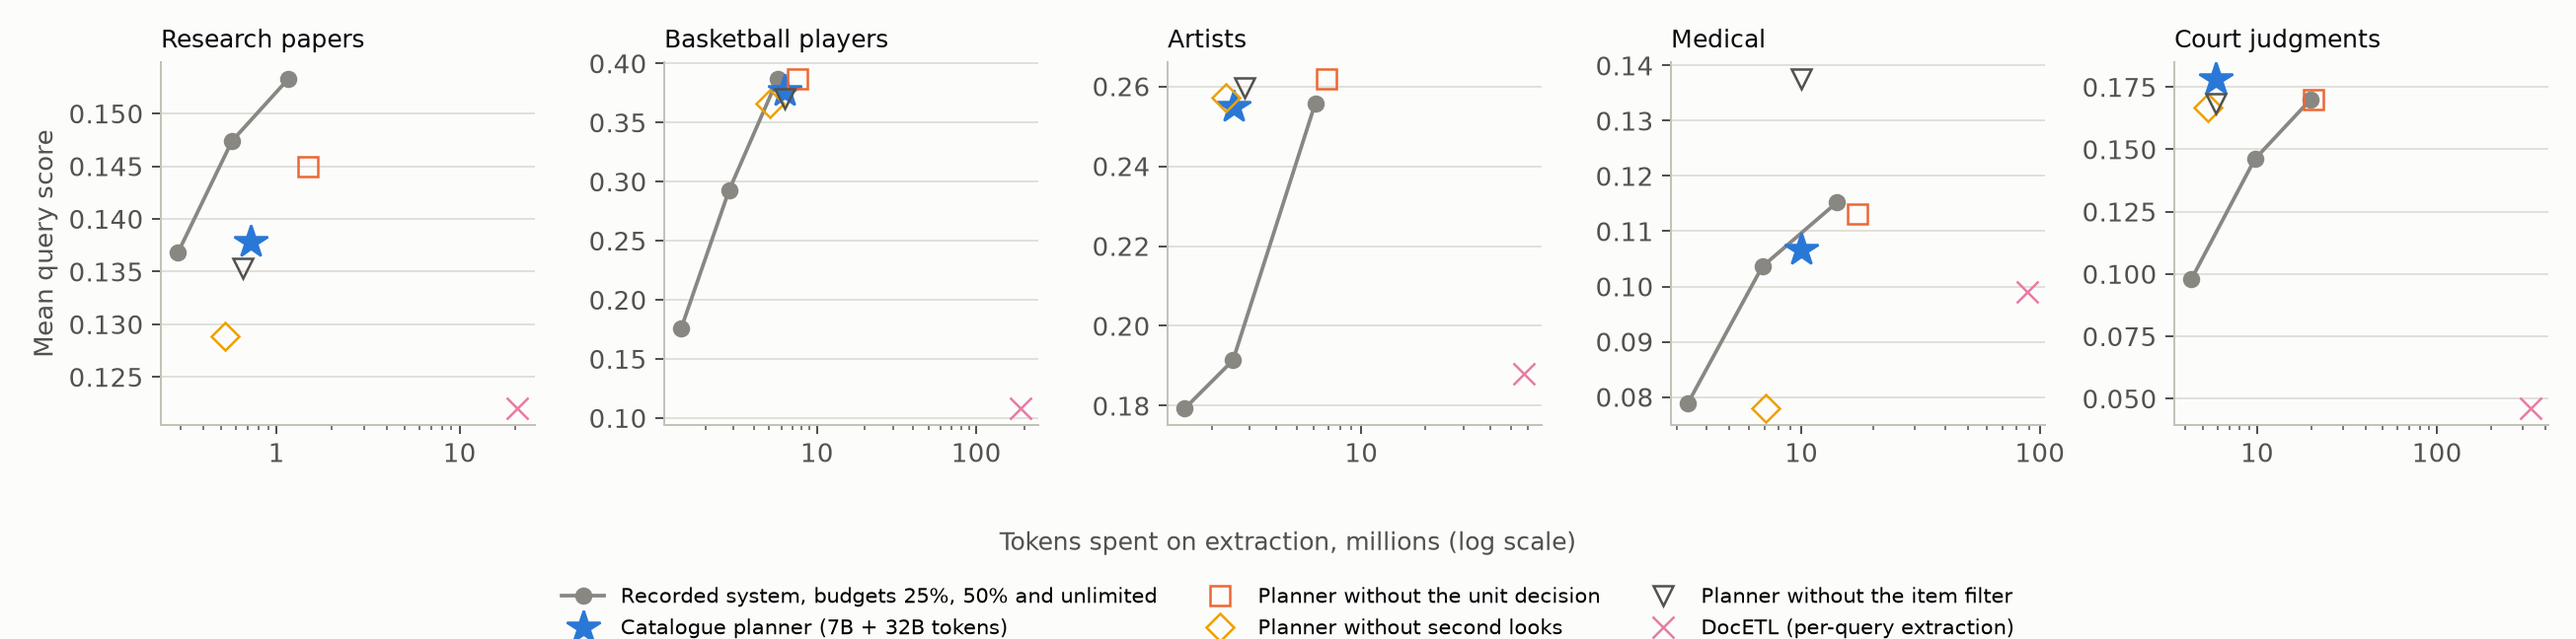
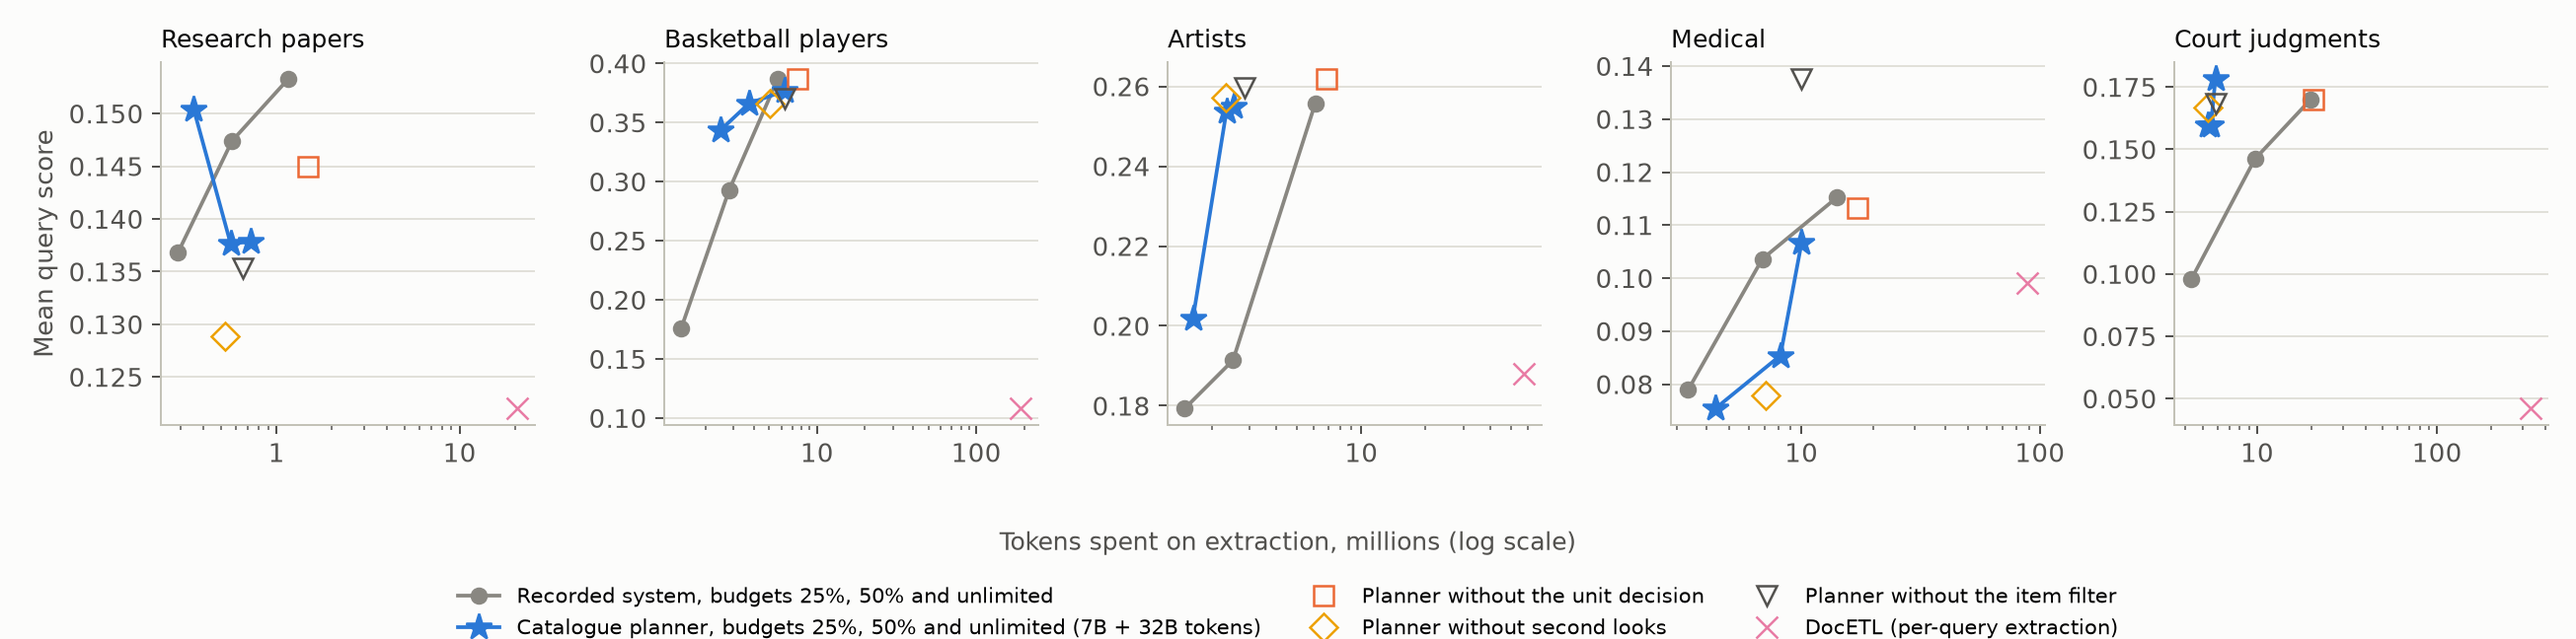
System figure: the planner's budget curve

diff --git a/results/experiments/why/v2_figures.py b/results/experiments/why/v2_figures.py
@@ -55,8 +55,12 @@ def system_figure():
             ax.plot([p[0] / 1e6 for p in pts], [p[1] for p in pts], marker="o", color=MUTED, label="Recorded system, budgets 25%, 50% and unlimited")
         fam = "V3" if "V3" in runs else ("v2" if "v2" in runs else "V2a")
         v2 = (runs.get(fam) or {}).get("fixed4-attribute_pool_100")
+        bud = runs.get(fam + "-budget") or {}
+        pts = sorted([(v["tokens"] + v["repair_tokens"], v["score"]) for k, v in bud.items() if k.startswith("fixed4b") and k.endswith("attribute_pool_100")])
         if v2:
-            ax.plot([(v2["tokens"] + v2["repair_tokens"]) / 1e6], [v2["score"]], marker="*", markersize=14, linestyle="none", color=BLUE, label="Catalogue planner (7B + 32B tokens)")
+            pts.append((v2["tokens"] + v2["repair_tokens"], v2["score"]))
+        if pts:
+            ax.plot([p[0] / 1e6 for p in pts], [p[1] for p in pts], marker="*", markersize=11, color=BLUE, label="Catalogue planner, budgets 25%, 50% and unlimited (7B + 32B tokens)")
         pre = "V3-" if fam == "V3" else ("" if fam == "v2" else "V2a-")
         for key, mk, col, lab in (("ablate-unit", "s", ORANGE, "without the unit decision"), ("ablate-windows", "^", AQUA, "without windows"),
                                   ("ablate-repair", "D", YELLOW, "without second looks"), ("ablate-itemfilter", "v", INK2, "without the item filter")):
